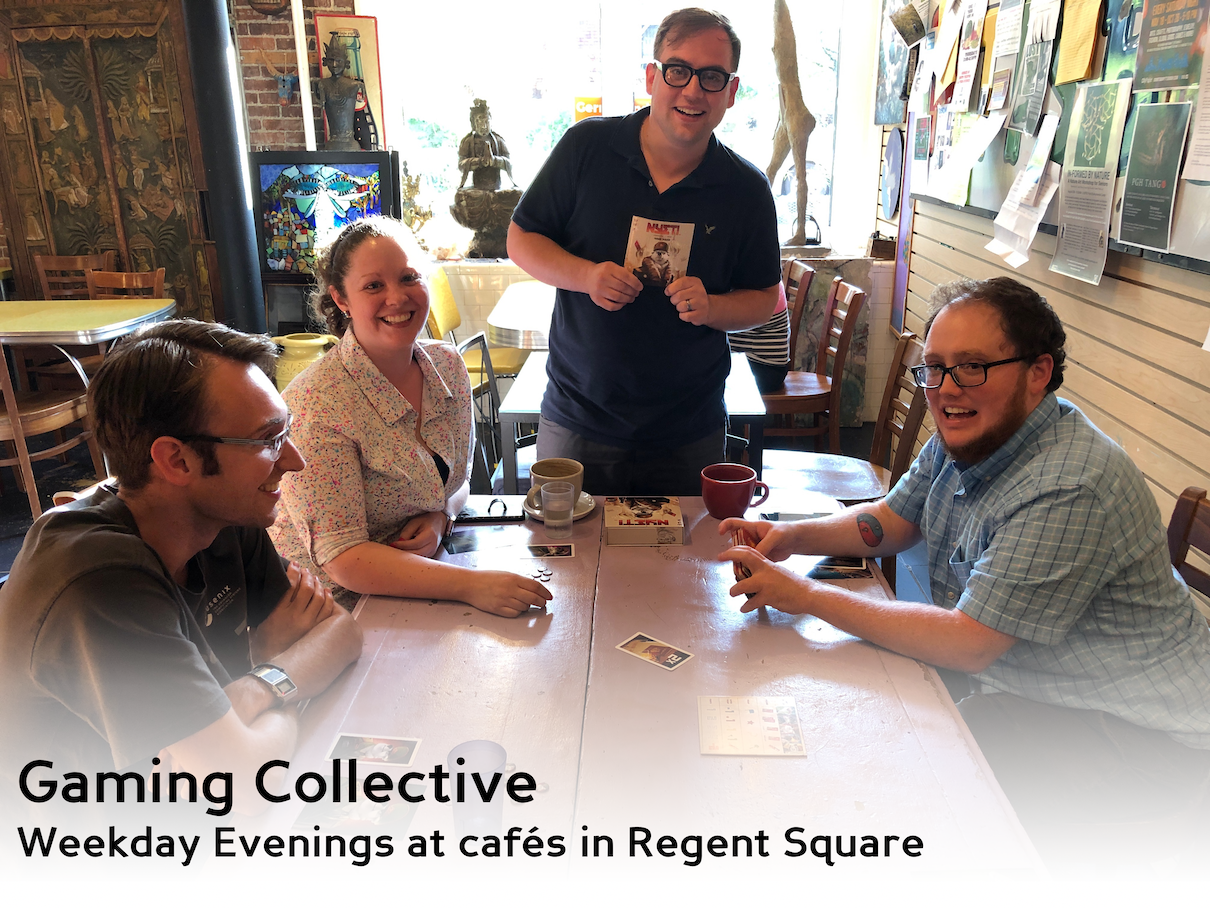
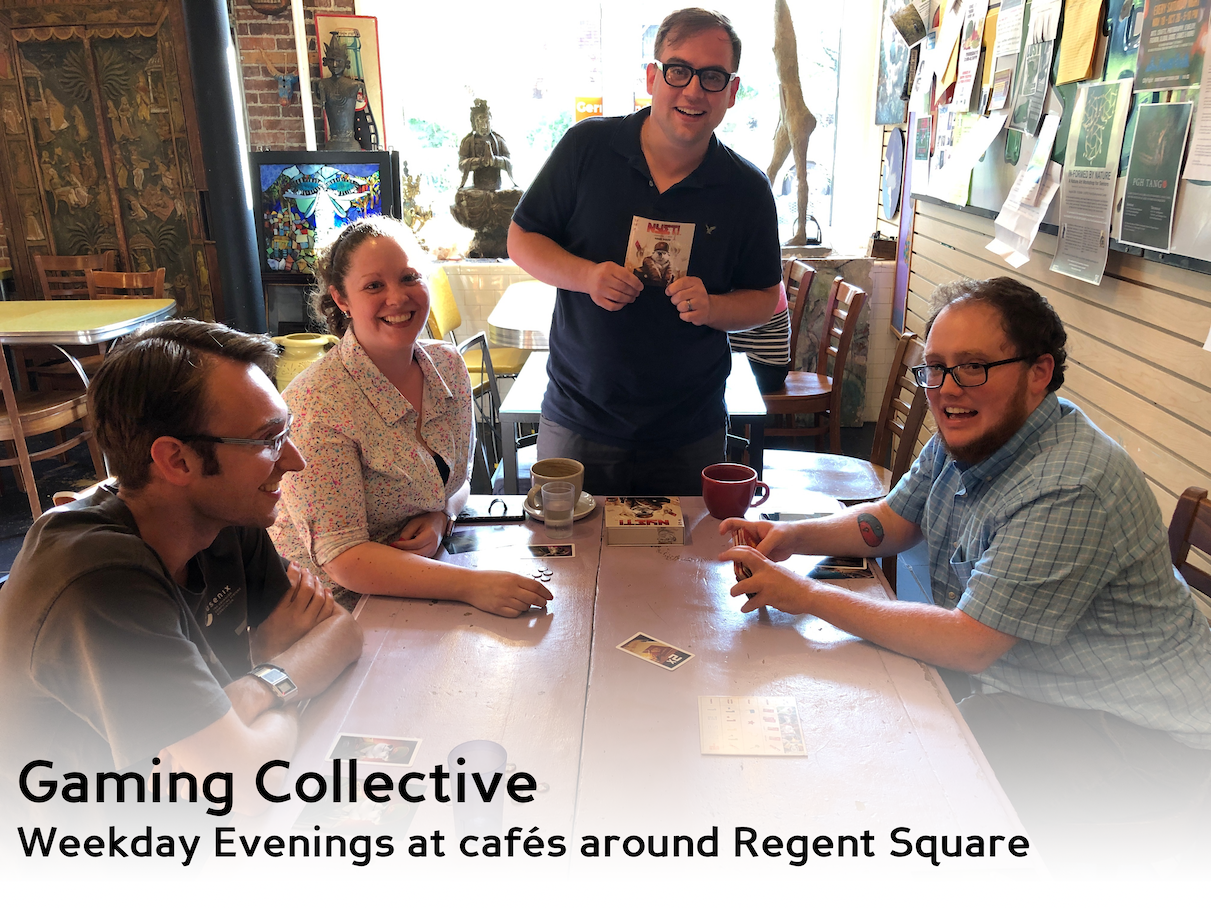
Update text and gaming image

Changed region(s): [[0.4587, 0.8943, 0.8562, 0.9559], [0.2752, 0.8326, 0.3058, 0.8634]]

diff --git a/docs/index.html b/docs/index.html
@@ -64,8 +64,8 @@
 		<div class="row">
 			<div class="col-md-12">
 				<p>
-					On weekday evenings we meet as <b>Gaming Collective</b> to play games in Regent Square.
-					Lately we have been meeting on Fridays at 61B Cafe after work.
+					On weekday evenings we meet as <b>Gaming Collective</b> to play games around Regent Square.
+					Lately we have been meeting on Fridays at Starbucks after work.
 					However, for exact dates and times, please check for announcements on our <a href="https://www.facebook.com/groups/448021712722926/">Gaming Collective Facebook page</a>.
 				</p>
 			</div>
@@ -81,17 +81,17 @@
 		<h2 id="aboutus">About Us</h2>
 		<div class="row">
 			<div class="col-md-12">
-				<p><b>TODO Write a short paragraph about our history.</b></p>
+				<p>In 2007, then seminary students Mike Gehrling and Chris Brown committed to prayer walking in Pittsburgh. One year later, God called them to start The Upper Room in Squirrel Hill to reach people without a religious community. The church committed to being a sacramental, contemplative, and missional community to provide people with intimacy and exploration. In 2018, The Upper Room relocated to the Wilkins School Community Center in Regent Square, and in 2019, we called our new pastor, Brendan Ashley. We are committed to exploring how God is active and moving in our new neighborhood and learning to join into that reality. The Upper Room is a PCUSA missional church.</p>
 
-				<p><b>Pastor Brendan Ashley</b> | Brendan Ashley is the Student Pastor of the Upper Room, a PCUSA Missional Church in Pittsburgh's Regent Square community. He is a missional leader, who guides the church in worship, missional strategy, visioning, teaching, and spiritual friendship. He graduated from Whitworth University (B.A. in Theology) and Pittsburgh Theological Seminary (M.Div with an emphasis in church planting). While in seminary, Brendan interned in two missional communities. He also completed an M.Div. thesis, focusing on a Trinitarian approach to mission for local congregations based on the topic of Charles Taylor's "A Secular Age."<br>Brendan has been married to Ashley Ashley for 8 years, and they have a sweet cat named Augustine. Brendan is an aspiring contemplative, who believes in a holistic approach to the spiritual life. This is evident in his love of watching and playing sports, reading spiritual classics and missional theology, hanging out with people, and his dedication to maintaining a rule of life.<br><br>
+				<p><b>Pastor Brendan Ashley</b> | Brendan Ashley is the Student Pastor of The Upper Room. He guides the church in worship, missional strategy, visioning, teaching, and spiritual friendship. Brendan graduated from Whitworth University (B.A. in Theology) and Pittsburgh Theological Seminary (M.Div with an emphasis in church planting). While in seminary, Brendan interned in two missional communities. His M.Div. thesis focused on a Trinitarian approach to mission for local congregations based on Charles Taylor's "A Secular Age."<br>Brendan has been married to Ashley Ashley for 8 years, and they have a sweet cat named Augustine. Brendan is an aspiring contemplative, who believes in a holistic approach to the spiritual life. This is evident in his love of watching and playing sports, reading spiritual classics and missional theology, hanging out with people, and his dedication to maintaining a rule of life.<br><br>
 Contact by email: brendan.upperroom [at] gmail.com<br>
 Or by phone: (seven-one-seven) 608-3704</p>
 
-				<p><b>Elder Kristen Tavenor</b> | Kristen was born and raised in Indianapolis Indiana and moved to Pittsburgh in July 2012 after she and Nate got married (Nate is in a Ph.D program at Pitt which is why they moved).  She keeps busy here in Pittsburgh by teaching Biology and Chemistry at Yeshiva School in Squirrel Hill and by teaching an after school science program with a company called Lab Ratz Science Club. She started going to the Upper Room in 2012 right after moving to Pittsburgh and she and Nate became members last spring. She has been involved in all sorts of activities with the church, but most recently has been serving on the Personnel Committee.</p>
+				<p><b>Elder Kristen Tavenor</b> | Kristen was born and raised in Indianapolis, Indiana. She moved to Pittsburgh in July 2012 after marrying her husband Nate. After their marriage, Kristen began attending The Upper Room. In 2019, Kristen and Nate became new parents with the birth of their daughter Zoe!</p>
 
-					<p><b>Elder Peter Story</b> | Peter Story moved to Pittsburgh in 2016 to start graduate school at Carnegie Mellon University. Shortly thereafter, he started attending The Upper Room. He was attracted to The Upper Room by its welcoming, close-knit community. Peter became an elder in 2018, and he is currently the Clerk of Session. He enjoys reading both science-fiction and theology.</p>
+					<p><b>Elder Peter Story</b> | Peter moved to Pittsburgh in 2016 to start graduate school at Carnegie Mellon University. Shortly thereafter, he started attending The Upper Room. He was attracted to The Upper Room by its welcoming, close-knit community. Peter became an elder in 2018, and he is currently the Clerk of Session. He enjoys reading both science-fiction and theology.</p>
 
-					<p><b>Elder Matthew Morris</b> | Born and raised a Pittsburgher. Two degrees: BA Creative writing from CMU and a minor in history; Mdiv from PTS with a CPI certification. Currently works for Touching Families as a social worker, a local non-profit that helps families in the county connect to resources and layout action plans that they face when we meet them. Wanting to live out his call to serve he wanted to help people directly with people in vulnerable positions and or just overwhelmed.<br>Matt is elder at the Upper Room and has worshipped there since 2013 where he did his seminary field Ed. He fell in love with the community and the people, there sincerity and thoughtfulness attracted Matt. He loved there deep insight into God and support for one another.<br>He enjoys being a giant nerd of all forms of art. He does this by reading books, listening to music, playing games and thinking about it. He loves anything that makes people smile and rest. He hopes to be a prescience that helps people find their joy and their calling. He wants his life to be about joy and play. He is serious about fun.</p>
+					<p><b>Elder Matthew Morris</b> | Matt is a born and raised Pittsburgher. He studied at Carnegie Mellon, where he earned his B.A. in Creative Writing, and at Pittsburgh Theological Seminary, where he earned his M.Div. Matt has worshipped at The Upper Room since 2013, and he became an elder in 2019. He enjoys being a nerd, and he is very serious about fun!</p>
 			</div>
 		</div>
 
